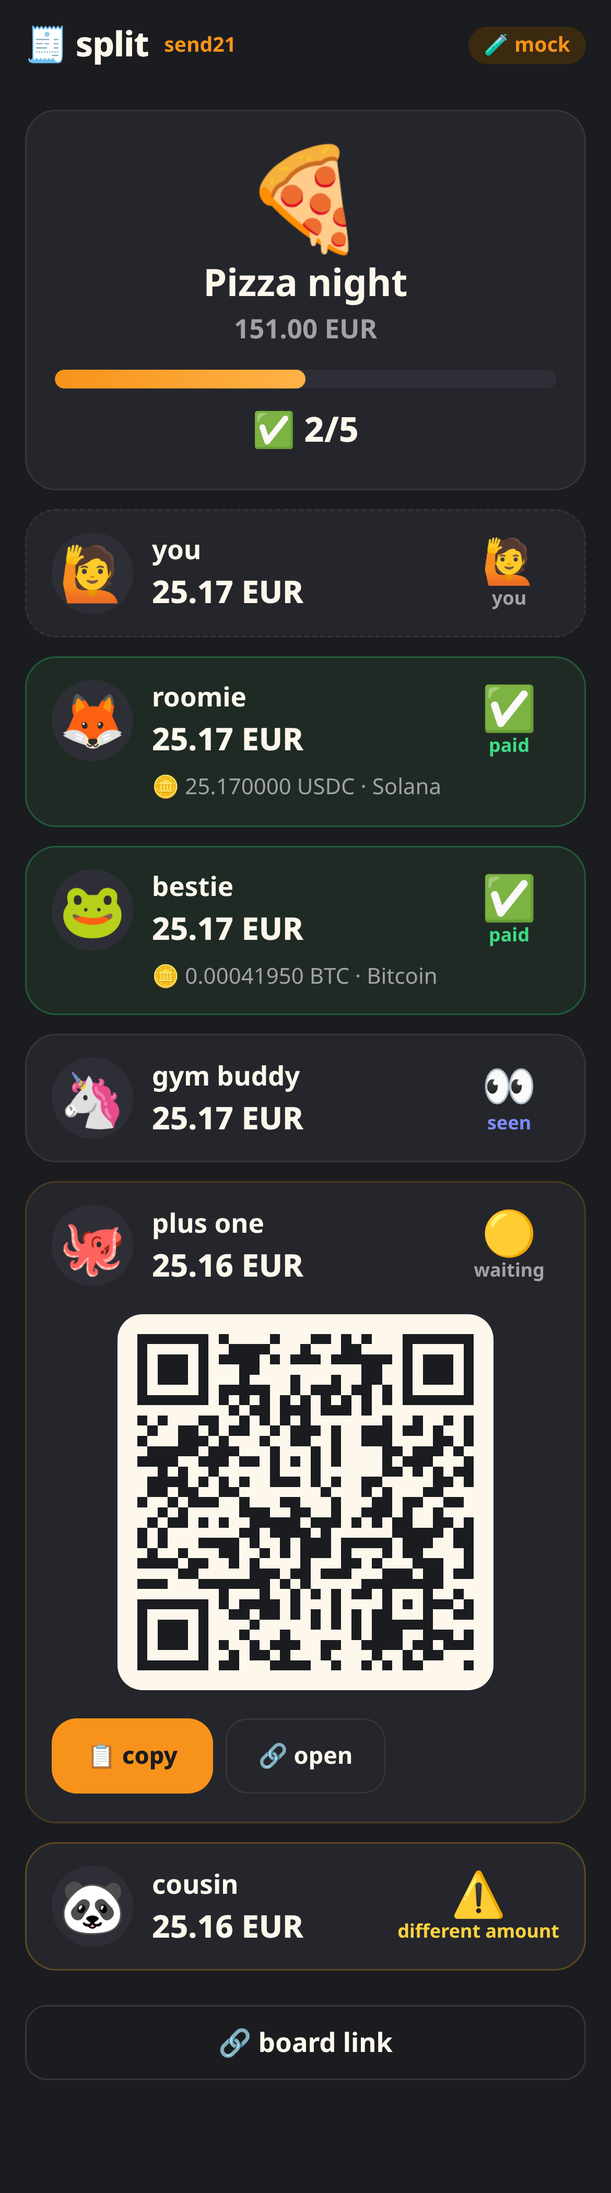
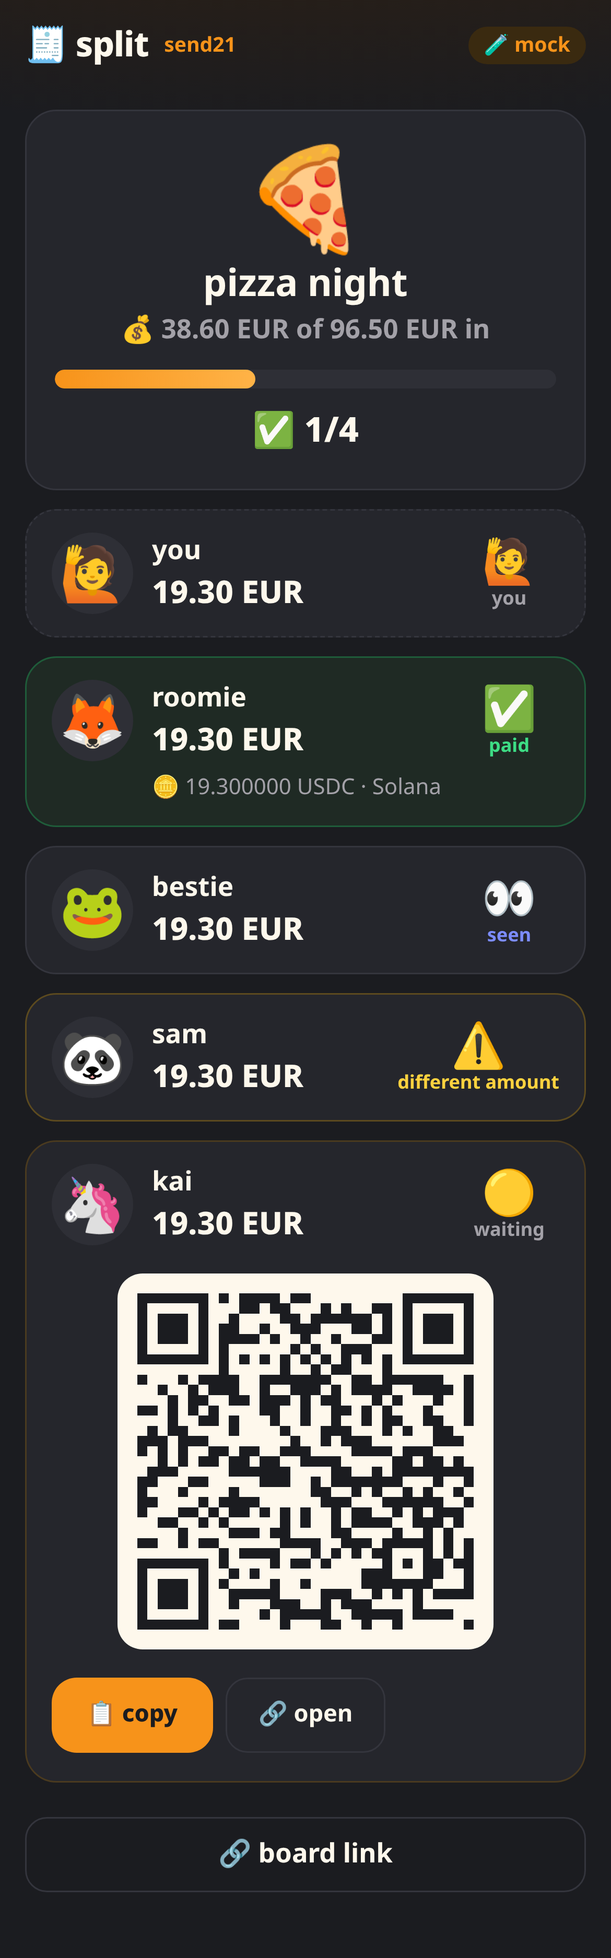
ux: mock first run just works, closed shares hide their pay link, clearer mock pay page
- mock mode fills in sample receiving addresses, so the README quick start
  makes links on the first try (it used to fail with 'not a USDC address')
- expired, declined and in-review shares no longer show their QR or pay link
  (API returns payUrl null, QR route 404s)
- mock pay page: one coin picker, 👍 accept / ↩ decline for short pays,
  unknown actions 404 instead of silently expiring the link
- board shows how much is in, 'who's in' label, rounded focus, orange glow

diff --git a/src/server.ts b/src/server.ts
@@ -3,7 +3,7 @@ import { dirname, resolve, sep } from "node:path";
 import { fileURLToPath } from "node:url";
 import express, { type Express, type Request, type Response } from "express";
 import QRCode from "qrcode";
-import { applyEvent, buildBill, createLinks, LIMITS, publicBill, type LinkConfig } from "./bills.js";
+import { applyEvent, buildBill, createLinks, LIMITS, payable, publicBill, type LinkConfig } from "./bills.js";
 import { COINS, FIATS, fiatDecimals, formatFiat } from "./currencies.js";
 import { friendlyError, type createMockClient, type Send21Client } from "./send21.js";
 import { Store } from "./store.js";
@@ -122,8 +122,10 @@ export function createApp({ store, send21, secret, links, log = console.log, moc
     res.json({
       mode: send21.mode,
       fiats: FIATS.map((f) => ({ code: f, decimals: fiatDecimals(f) })),
-      coins: COINS.map((c) => ({ id: c.id, emoji: c.emoji, label: c.label })),
+      coins: COINS.map((c) => ({ id: c.id, emoji: c.emoji, label: c.label, kind: c.kind })),
       limits: LIMITS,
+      // Mock mode only: sample addresses so the first run works without a wallet. Never real ones.
+      ...(send21.mode === "mock" ? { demoAddresses: DEMO_ADDRESSES } : {}),
     });
   });
   api.post("/bills", rateLimit(10, 60_000), async (req, res) => {
@@ -148,7 +150,7 @@ export function createApp({ store, send21, secret, links, log = console.log, moc
     const bill = getBill(req, res);
     const share = bill?.shares.find((s) => String(s.n) === req.params.n);
     if (!bill) return;
-    if (!share?.payUrl) {
+    if (!share?.payUrl || !payable(share)) {
       res.status(404).end();
       return;
     }
@@ -190,9 +192,28 @@ export function createApp({ store, send21, secret, links, log = console.log, moc
 
 // ---------- mock mode: a tiny local "pay page" that sends signed deliveries ----------
 
+/** Well-known sample addresses (not ours, nobody's keys): only offered in mock mode. */
+export const DEMO_ADDRESSES: Record<string, string> = {
+  solana: "7xKXtg2CW87d97TXJSDpbD5jBkheTqA83TZRuJosgAsU",
+  evm: "0x52908400098527886E0F7030069857D2E4169EE7",
+  lightning: "split@wallet.example",
+};
+
+const MOCK_ACTIONS: [string, string, string][] = [
+  ["paid", "✅", "pay"],
+  ["seen", "👀", "start paying"],
+  ["short", "⚠", "pay 5% short"],
+  ["accept", "👍", "accept the short pay"],
+  ["decline", "↩", "decline the short pay"],
+  ["expire", "⌛", "let it expire"],
+];
+
+const mockPage = (title: string, body: string) => `<!doctype html><html lang="en"><head><meta charset="utf-8"><meta name="viewport" content="width=device-width,initial-scale=1"><title>${esc(title)} · mock pay</title><link rel="icon" href="data:,"><link rel="stylesheet" href="/mock.css"></head><body><main class="mock">${body}</main></body></html>`;
+
 const esc = (s: string) => s.replace(/[&<>"']/g, (c) => `&#${c.charCodeAt(0)};`);
 
-function mountMock(app: Express, secret: string, { client, selfUrl }: NonNullable<AppDeps["mock"]>): void {
+function mountMock(app: Express, secret: string, mock: NonNullable<AppDeps["mock"]>): void {
+  const { client } = mock;
   app.get("/mock/pay/:token", (req, res) => {
     const entry = client.requests.get(req.params.token);
     if (!entry) {
@@ -201,10 +222,16 @@ function mountMock(app: Express, secret: string, { client, selfUrl }: NonNullabl
     }
     const t = esc(req.params.token);
     const coins = entry.body.options.map((o, i) => `<option value="${i}">${esc(`${o.currency.toUpperCase()} · ${o.method ?? o.network}`)}</option>`).join("");
-    res.type("html").send(`<!doctype html><meta name="viewport" content="width=device-width,initial-scale=1"><title>mock pay</title><link rel="stylesheet" href="/mock.css">
-<main class="mock"><p class="tag">🧪 MOCK · no real money</p><h1>${esc(formatFiat(entry.body.fiatAmount, entry.body.fiatCurrency))}</h1><p>${esc(entry.body.memo)}</p>
-${[["seen", "👀 start paying"], ["paid", "✅ pay"], ["short", "⚠ pay 5% short"], ["expire", "⌛ expire"]].map(([a, l]) => `<form method="post" action="/mock/pay/${t}/${a}"><select name="coin">${coins}</select><button>${l}</button></form>`).join("")}
-</main>`);
+    const amount = formatFiat(entry.body.fiatAmount, entry.body.fiatCurrency);
+    res.type("html").send(
+      mockPage(
+        amount,
+        `<p class="tag">🧪 mock pay page · no real money</p><h1>${esc(amount)}</h1><p class="memo">${esc(entry.body.memo)}</p>
+<form method="post" action="/mock/pay/${t}/paid" class="card"><label for="coin">🪙 pay with</label><select id="coin" name="coin">${coins}</select>
+<div class="acts">${MOCK_ACTIONS.map(([a, i, l]) => `<button formaction="/mock/pay/${t}/${a}" class="${a === "paid" ? "main" : ""}">${i} ${l}</button>`).join("")}</div></form>
+<p class="hint">Each button sends a signed webhook to this app, like send21 would. 👍 / ↩ are what the send21 account owner does with a short pay.</p>`,
+      ),
+    );
   });
 
   app.post("/mock/pay/:token/:action", express.urlencoded({ extended: false, limit: "1kb" }), async (req, res) => {
@@ -229,29 +256,49 @@ ${[["seen", "👀 start paying"], ["paid", "✅ pay"], ["short", "⚠ pay 5% 
       sentAmount: (amountSats / units).toFixed(Math.log10(units)),
       occurredAt: new Date().toISOString(),
     };
-    const action = req.params.action;
-    const body =
-      action === "paid"
-        ? { event: "draft.confirmed", data: { ...base, status: "Confirmed", txId: `mock-${randomUUID()}`, confirmations: 1 } }
-        : action === "seen"
-          ? { event: "draft.seen", data: { ...base, status: "Seen", txId: `mock-${randomUUID()}`, confirmations: 0 } }
-          : action === "short"
-            ? { event: "draft.amount_mismatch", data: { ...base, status: "AwaitingPayment", reviewState: "pending", receivedAmountSats: Math.round(amountSats * 0.95) } }
-            : { event: "payment_request.expired", data: { paymentRequestId: entry.response.id, orderId: entry.body.orderId, opened: true, quoteRequested: false } };
-    const raw = JSON.stringify(body);
-    const deliveryId = randomUUID();
-    const r = await fetch(`${selfUrl}/webhooks/send21`, {
-      method: "POST",
-      headers: {
-        "content-type": "application/json",
-        "x-send21-event": body.event,
-        "x-send21-delivery": deliveryId,
-        "x-send21-signature-v2": signV2(raw, deliveryId, Math.floor(Date.now() / 1000), secret),
-      },
-      body: raw,
-    });
+    const short = Math.round(amountSats * 0.95);
+    const tx = `mock-${randomUUID()}`;
+    const events: Record<string, { event: string; data: Record<string, unknown> }[]> = {
+      paid: [{ event: "draft.confirmed", data: { ...base, status: "Confirmed", txId: tx, confirmations: 1 } }],
+      seen: [{ event: "draft.seen", data: { ...base, status: "Seen", txId: tx, confirmations: 0 } }],
+      short: [{ event: "draft.amount_mismatch", data: { ...base, status: "AwaitingPayment", reviewState: "pending", receivedAmountSats: short } }],
+      // The owner accepts on send21: draft.mismatch_accepted, then draft.confirmed for the received amount.
+      accept: [
+        { event: "draft.mismatch_accepted", data: { ...base, status: "AwaitingPayment", reviewState: "accepted", acceptReason: "close enough", receivedAmountSats: short } },
+        { event: "draft.confirmed", data: { ...base, status: "Confirmed", txId: tx, confirmations: 1, receivedAmountSats: short } },
+      ],
+      decline: [{ event: "draft.mismatch_rejected", data: { ...base, status: "AwaitingPayment", reviewState: "rejected", rejectReason: "too short", refund: "manual", receivedAmountSats: short } }],
+      expire: [{ event: "payment_request.expired", data: { paymentRequestId: entry.response.id, orderId: entry.body.orderId, opened: true, quoteRequested: false } }],
+    };
+    const list = Object.hasOwn(events, req.params.action) ? events[req.params.action]! : null;
+    if (!list) {
+      res.status(404).send("unknown action");
+      return;
+    }
+    let r: { ok: boolean; status: number } = { ok: false, status: 0 };
+    for (const body of list) {
+      const raw = JSON.stringify(body);
+      const deliveryId = randomUUID();
+      r = await fetch(`${mock.selfUrl}/webhooks/send21`, {
+        method: "POST",
+        headers: {
+          "content-type": "application/json",
+          "x-send21-event": body.event,
+          "x-send21-delivery": deliveryId,
+          "x-send21-signature-v2": signV2(raw, deliveryId, Math.floor(Date.now() / 1000), secret),
+        },
+        body: raw,
+      });
+      if (!r.ok) break;
+    }
+    const body = { event: list.map((b) => b.event).join(" → ") };
     const billId = /^split-([a-z0-9]{20})-/.exec(entry.body.orderId)?.[1] ?? "";
-    res.type("html").send(`<!doctype html><meta name="viewport" content="width=device-width,initial-scale=1"><link rel="stylesheet" href="/mock.css">
-<main class="mock"><h1>${r.ok ? "📨" : "❌"}</h1><p>${esc(r.ok ? body.event : String(r.status))}</p><p><a href="/#/b/${esc(billId)}">👉 board</a> · <a href="/mock/pay/${esc(req.params.token)}">↩ back</a></p></main>`);
+    res.status(r.ok ? 200 : 502).type("html").send(
+      mockPage(
+        body.event,
+        `<p class="huge">${r.ok ? "📨" : "❌"}</p><h1 class="small">${r.ok ? "webhook sent" : `webhook refused (${r.status})`}</h1><p class="memo"><code>${esc(body.event)}</code></p>
+<a class="btn main" href="/#/b/${esc(billId)}">👉 back to the board</a><a class="btn" href="/mock/pay/${esc(req.params.token)}">↩ mock pay page</a>`,
+      ),
+    );
   });
 }

diff --git a/public/app.js b/public/app.js
@@ -68,6 +68,10 @@ function createView() {
     people: [{ name: "", emoji: AVATARS[0] }, { name: "", emoji: AVATARS[1] }, { name: "", emoji: AVATARS[2] }],
     coins: stored("split.coins", [{ coin: "usdc-sol", address: "" }]),
   };
+  // 🧪 Mock mode: fill in sample addresses so the first run just works.
+  const demo = meta.demoAddresses;
+  const demoFor = (id) => demo?.[meta.coins.find((m) => m.id === id)?.kind] ?? "";
+  if (demo) for (const c of state.coins) if (!c.address) c.address = demoFor(c.coin);
   const preview = h("p", { class: "each" });
   const peopleBox = h("div", { class: "people" });
   const coinBox = h("div", { class: "coins" });
@@ -76,7 +80,7 @@ function createView() {
     const d = decimals(state.currency);
     const total = Math.round(Number(String(state.total).replace(",", ".")) * 10 ** d);
     const count = state.people.length + (state.includeMe ? 1 : 0);
-    if (!(total > 0)) return (preview.textContent = `👥 ${count}`);
+    if (!(total > 0)) return (preview.textContent = `👥 ${count} people · type the total 👆`);
     const shares = splitMinor(total, count).map((m) => m / 10 ** d);
     const lo = shares[shares.length - 1];
     const hi = shares[0];
@@ -99,12 +103,12 @@ function createView() {
     coinBox.replaceChildren(
       ...state.coins.map((c, i) =>
         h("div", { class: "row coin" },
-          h("select", { "aria-label": "coin", onchange: (e) => (c.coin = e.target.value) }, meta.coins.map((m) => h("option", { value: m.id, selected: m.id === c.coin }, `${m.emoji} ${m.label}`))),
+          h("select", { "aria-label": "coin", onchange: (e) => { const was = demoFor(c.coin); c.coin = e.target.value; if (demo && (!c.address || c.address === was)) { c.address = demoFor(c.coin); drawCoins(); } } }, meta.coins.map((m) => h("option", { value: m.id, selected: m.id === c.coin }, `${m.emoji} ${m.label}`))),
           h("input", { value: c.address, placeholder: "your address", autocomplete: "off", spellcheck: "false", "aria-label": "your receiving address", oninput: (e) => (c.address = e.target.value.trim()) }),
           h("button", { type: "button", class: "x", "aria-label": "remove", disabled: state.coins.length === 1, onclick: () => { state.coins.splice(i, 1); drawCoins(); } }, "✕"),
         ),
       ),
-      h("button", { type: "button", class: "add", disabled: state.coins.length >= meta.limits.maxCoins, onclick: () => { state.coins.push({ coin: meta.coins[0].id, address: "" }); drawCoins(); } }, "➕ coin"),
+      h("button", { type: "button", class: "add", disabled: state.coins.length >= meta.limits.maxCoins, onclick: () => { state.coins.push({ coin: meta.coins[0].id, address: demoFor(meta.coins[0].id) }); drawCoins(); } }, "➕ coin"),
     );
   }
 
@@ -137,11 +141,11 @@ function createView() {
     ),
     h("label", { class: "toggle" }, h("input", { type: "checkbox", checked: state.includeMe, onchange: (e) => { state.includeMe = e.target.checked; updatePreview(); } }), " 🙋 I'm in too"),
     preview,
-    h("h2", {}, "👥"),
+    h("h2", {}, "👥 who's in"),
     peopleBox,
     h("h2", {}, "🪙 paid to you"),
     coinBox,
-    h("p", { class: "hint" }, "🔒 your own address · never a seed phrase"),
+    h("p", { class: "hint" }, demo ? "🧪 mock mode: sample addresses filled in · no real money" : "🔒 your own address · never a seed phrase"),
     go,
   );
   drawPeople();
@@ -167,7 +171,7 @@ function boardView(id, openFirst) {
       h("div", { class: "card head" },
         h("div", { class: "big" }, bill.emoji),
         h("h1", {}, bill.title),
-        h("p", { class: "sum" }, money(bill.total, bill.currency)),
+        h("p", { class: "sum" }, `💰 ${money(got, bill.currency)} of ${money(bill.total, bill.currency)} in`),
         h("div", { class: "bar", role: "progressbar", "aria-valuenow": pct, "aria-valuemin": 0, "aria-valuemax": 100 }, h("span", { class: "fill" })),
         h("p", { class: "count" }, paid.length === friends.length ? "🎉 all paid" : `✅ ${paid.length}/${friends.length}`),
       ),
@@ -200,10 +204,11 @@ function boardView(id, openFirst) {
 
 function shareCard(bill, s, open) {
   const [icon, word] = STATUS[s.status] ?? ["❔", s.status];
-  const isOpen = open.has(s.n) && s.payUrl && !["paid", "me"].includes(s.status);
+  // The server only sends payUrl while the share can still be paid (waiting / seen).
+  const isOpen = open.has(s.n) && Boolean(s.payUrl);
   const name = s.status === "me" ? "you" : s.name || `friend ${s.n}`;
   const el = h("article", { class: `card share st-${s.status}${isOpen ? " open" : ""}` },
-    h("button", { class: "share-head", type: "button", "aria-expanded": String(Boolean(isOpen)), disabled: !s.payUrl || ["paid", "me"].includes(s.status), onclick: (e) => e.target.closest(".board").dispatchEvent(new CustomEvent("toggle-share", { detail: s.n })) },
+    h("button", { class: "share-head", type: "button", "aria-expanded": String(Boolean(isOpen)), disabled: !s.payUrl, onclick: (e) => e.target.closest(".board").dispatchEvent(new CustomEvent("toggle-share", { detail: s.n })) },
       h("span", { class: "who" }, s.emoji),
       h("span", { class: "name" }, name),
       h("span", { class: "amt" }, money(s.amount, bill.currency)),
@@ -236,6 +241,7 @@ async function copy(text, msg) {
 // ---------- router ----------
 async function route() {
   meta ??= await api("/meta");
+  document.getElementById("toast").hidden = true;
   document.getElementById("mode").hidden = meta.mode !== "mock";
   // #/b/<id> is the board; #/b/<id>/<n> opens that person's QR card.
   const m = /^#\/b\/([a-z0-9]{20})(?:\/(\d{1,2}))?$/.exec(location.hash);

diff --git a/test/mock.test.ts b/test/mock.test.ts
@@ -1,0 +1,81 @@
+import { mkdtempSync, rmSync } from "node:fs";
+import { tmpdir } from "node:os";
+import { join } from "node:path";
+import { afterEach, beforeEach, describe, expect, it } from "vitest";
+import { createMockClient } from "../src/send21.js";
+import { createApp } from "../src/server.js";
+import { Store } from "../src/store.js";
+import { form, listen, SECRET } from "./helpers.js";
+
+let dir: string;
+let server: Awaited<ReturnType<typeof listen>>;
+let store: Store;
+let mock: { client: ReturnType<typeof createMockClient>; selfUrl: string };
+
+beforeEach(async () => {
+  dir = mkdtempSync(join(tmpdir(), "split-mock-"));
+  store = new Store(join(dir, "s.json"));
+  mock = { client: createMockClient("http://localhost"), selfUrl: "" };
+  server = await listen(createApp({ store, send21: mock.client, secret: SECRET, links: { expiryHours: 72, shortfallPercent: 2 }, log: () => undefined, mock }));
+  mock.selfUrl = server.url;
+});
+afterEach(async () => {
+  await server.close();
+  rmSync(dir, { recursive: true, force: true });
+});
+
+async function newBill() {
+  const bill = await (await fetch(`${server.url}/api/bills`, { method: "POST", headers: { "content-type": "application/json" }, body: JSON.stringify(form()) })).json();
+  const token = /\/mock\/pay\/([^/?#]+)/.exec(bill.shares[1].payUrl)![1]!;
+  const act = (a: string) => fetch(`${server.url}/mock/pay/${token}/${a}`, { method: "POST", headers: { "content-type": "application/x-www-form-urlencoded" }, body: "coin=0" });
+  const status = async () => (await (await fetch(`${server.url}/api/bills/${bill.id}`)).json()).shares[1];
+  return { id: bill.id as string, token, act, status };
+}
+
+describe("mock pay page", () => {
+  it("offers sample addresses in mock mode only", async () => {
+    const meta = await (await fetch(`${server.url}/api/meta`)).json();
+    expect(meta.demoAddresses.solana).toMatch(/^[1-9A-HJ-NP-Za-km-z]{32,44}$/);
+    expect(meta.coins.find((c: { id: string }) => c.id === "usdc-sol").kind).toBe("solana");
+  });
+
+  it("one coin picker, every action, lang set", async () => {
+    const { token } = await newBill();
+    const html = await (await fetch(`${server.url}/mock/pay/${token}`)).text();
+    expect(html).toContain('<html lang="en">');
+    expect(html.match(/<select/g)).toHaveLength(1);
+    for (const a of ["seen", "paid", "short", "accept", "decline", "expire"]) expect(html).toContain(`/mock/pay/${token}/${a}`);
+  });
+
+  it("short → accept ends paid (≈ accepted), short → decline ends declined", async () => {
+    const one = await newBill();
+    expect((await one.act("short")).status).toBe(200);
+    expect((await one.status()).status).toBe("review");
+    expect((await one.act("accept")).status).toBe(200);
+    const paid = await one.status();
+    expect(paid.status).toBe("paid");
+    expect(paid.paid.differentAmount).toBe(true);
+
+    const two = await newBill();
+    await two.act("short");
+    await two.act("decline");
+    expect((await two.status()).status).toBe("declined");
+  });
+
+  it("an expired share no longer hands out its pay link or QR", async () => {
+    const { id, act, status } = await newBill();
+    expect((await fetch(`${server.url}/api/bills/${id}/qr/1`)).status).toBe(200);
+    expect((await status()).payUrl).toMatch(/mock\/pay/);
+    await act("expire");
+    const s = await status();
+    expect(s.status).toBe("expired");
+    expect(s.payUrl).toBeNull();
+    expect((await fetch(`${server.url}/api/bills/${id}/qr/1`)).status).toBe(404);
+  });
+
+  it("an unknown action is a 404, not an expiry", async () => {
+    const { act, status } = await newBill();
+    expect((await act("nope")).status).toBe(404);
+    expect((await status()).status).toBe("waiting");
+  });
+});

diff --git a/public/mock.css b/public/mock.css
@@ -1,8 +1,20 @@
-body { margin: 0; background: #1b1c20; color: #fef8ec; font: 18px/1.4 system-ui, sans-serif; }
-.mock { max-width: 420px; margin: 0 auto; padding: 32px 16px; text-align: center; }
-.mock h1 { font-size: 44px; margin: 8px 0; }
-.tag { display: inline-block; background: #3a2a10; color: #f7931a; border-radius: 99px; padding: 4px 12px; font-weight: 700; font-size: 14px; }
-.mock form { display: flex; gap: 8px; margin: 10px 0; }
-.mock select { flex: 1; background: #25262c; color: inherit; border: 1px solid #34353d; border-radius: 12px; padding: 10px; font: inherit; }
-.mock button { background: #f7931a; color: #1b1c20; border: 0; border-radius: 12px; padding: 12px 16px; font: inherit; font-weight: 800; min-width: 150px; }
-.mock a { color: #f7931a; }
+:root { color-scheme: dark; }
+body { margin: 0; min-height: 100dvh; background: radial-gradient(900px 360px at 50% -12%, #3a230c 0%, transparent 70%), #1b1c20; color: #fef8ec; font: 17px/1.4 system-ui, -apple-system, "Segoe UI", Roboto, "Noto Sans", sans-serif; }
+.mock { max-width: 440px; margin: 0 auto; padding: 32px 16px 48px; text-align: center; }
+.mock h1 { font-size: 46px; margin: 10px 0 4px; letter-spacing: -.02em; }
+.mock h1.small { font-size: 24px; }
+.huge { font-size: 64px; margin: 24px 0 0; line-height: 1; }
+.memo { color: #a3a1a8; margin: 0 0 18px; }
+.tag { display: inline-block; background: #3a2a10; color: #f7931a; border-radius: 99px; padding: 4px 12px; font-weight: 700; font-size: 14px; margin: 0; }
+.card { background: #25262c; border: 1px solid #34353d; border-radius: 20px; padding: 16px; text-align: left; }
+.card label { display: block; color: #a3a1a8; font-weight: 700; font-size: 14px; margin-bottom: 6px; }
+.mock select { width: 100%; background: #2e2f36; color: inherit; border: 1px solid #34353d; border-radius: 14px; padding: 12px; font: inherit; font-weight: 700; }
+.acts { display: grid; grid-template-columns: 1fr 1fr; gap: 8px; margin-top: 12px; }
+.acts button, .btn { display: flex; align-items: center; justify-content: center; min-height: 50px; padding: 10px 12px; border-radius: 14px; border: 1px solid #34353d; background: #2e2f36; color: #fef8ec; font: inherit; font-size: 15px; font-weight: 700; cursor: pointer; text-decoration: none; }
+.acts button:last-child:nth-child(even) { grid-column: 1 / -1; }
+.acts .main { grid-column: 1 / -1; min-height: 56px; font-size: 19px; font-weight: 800; }
+.main { background: #f7931a !important; border-color: #f7931a !important; color: #1b1c20 !important; }
+.btn { margin-top: 10px; }
+.hint { color: #a3a1a8; font-size: 14px; margin-top: 14px; }
+code { background: #2e2f36; border-radius: 8px; padding: 2px 8px; font-size: 14px; }
+:focus-visible { outline: 3px solid #f7931a; outline-offset: 2px; }

diff --git a/public/style.css b/public/style.css
@@ -14,6 +14,7 @@
 }
 * { box-sizing: border-box; }
 html, body { margin: 0; background: var(--bg); color: var(--text); }
+body { background: radial-gradient(900px 360px at 50% -12%, #3a230c 0%, transparent 70%), var(--bg); }
 body { font: 17px/1.35 system-ui, -apple-system, "Segoe UI", Roboto, "Noto Sans", sans-serif; min-height: 100dvh; padding: env(safe-area-inset-top) 0 env(safe-area-inset-bottom); }
 main { max-width: 480px; margin: 0 auto; padding: 8px 16px 48px; }
 button, input, select { font: inherit; color: inherit; }
@@ -35,7 +36,8 @@ h2 { font-size: 15px; color: var(--dim); font-weight: 700; margin: 22px 0 8px; }
 .bill-emoji { font-size: 44px; line-height: 1; width: 72px; height: 72px; border-radius: 22px; border: 1px solid var(--line); background: #2e2f36; }
 .title { flex: 1; background: transparent; border: 0; border-bottom: 2px solid var(--line); font-size: 22px; font-weight: 700; padding: 8px 2px; min-width: 0; }
 .total { display: flex; align-items: center; gap: 10px; margin: 18px 0 6px; }
-.amount { flex: 1; min-width: 0; background: transparent; border: 0; font-size: 52px; font-weight: 800; letter-spacing: -.03em; padding: 0; caret-color: var(--orange); }
+.amount { flex: 1; min-width: 0; background: transparent; border: 0; border-radius: 14px; font-size: 52px; font-weight: 800; letter-spacing: -.03em; padding: 0 6px; caret-color: var(--orange); }
+.title:focus-visible, .amount:focus-visible { outline: 0; box-shadow: 0 2px 0 0 var(--orange); border-radius: 0; }
 .amount::placeholder { color: #4a4b53; }
 .cur, .coin select { background: #2e2f36; border: 1px solid var(--line); border-radius: 14px; padding: 10px 12px; font-weight: 700; }
 .toggle { display: flex; align-items: center; gap: 8px; color: var(--dim); font-weight: 600; margin-top: 4px; }

diff --git a/src/bills.ts b/src/bills.ts
@@ -269,6 +269,9 @@ export function applyEvent(d: StoreData, body: { event?: unknown; data?: unknown
   }
 }
 
+/** Only an open, unpaid share still shows its pay link: never one that expired, was declined or is in review. */
+export const payable = (s: { status: string; payUrl?: string | null }): boolean => Boolean(s.payUrl) && (s.status === "waiting" || s.status === "seen");
+
 /** What the browser gets: no receiving addresses beyond what the pay page shows anyway, no internals. */
 export function publicBill(bill: Bill) {
   return {
@@ -284,7 +287,7 @@ export function publicBill(bill: Bill) {
       emoji: s.emoji,
       amount: s.amount,
       status: s.status,
-      payUrl: s.payUrl,
+      payUrl: payable(s) ? s.payUrl : null,
       expiresAt: s.expiresAt,
       paid: s.paid ? { currency: s.paid.currency, network: s.paid.network, amount: s.paid.amount, differentAmount: s.paid.differentAmount } : null,
     })),

diff --git a/README.md b/README.md
@@ -15,7 +15,7 @@
 
 ## Quickstart
 
-1. **Try it now, no key:** `npm install && npm run dev`, then open http://localhost:3000. Mock mode: tap a friend, open the link and simulate 👀 / ✅ / ⚠ / ⌛.
+1. **Try it now, no key:** `npm install && npm run dev`, then open http://localhost:3000. Mock mode fills in sample addresses: type a total, ⚡ make links, tap a friend, 🔗 open and play the payer: ✅ pay, 👀 start paying, ⚠ pay short then 👍 accept or ↩ decline, or ⌛ let it expire.
 2. **send21 key.** On [send21.io/api-keys](https://send21.io/api-keys), create a key with `drafts:write` (add `webhooks:manage` for step 4).
 3. **Configure.** `cp .env.example .env` and fill in `SEND21_API_KEY` and `PUBLIC_URL`.
 4. **Webhook.** Put the app behind your own HTTPS address (for example a reverse proxy with a free Let's Encrypt certificate, and `TRUST_PROXY=1`), then run `npm run webhook:register` and paste the printed `SEND21_WEBHOOK_SECRET` into `.env`.
